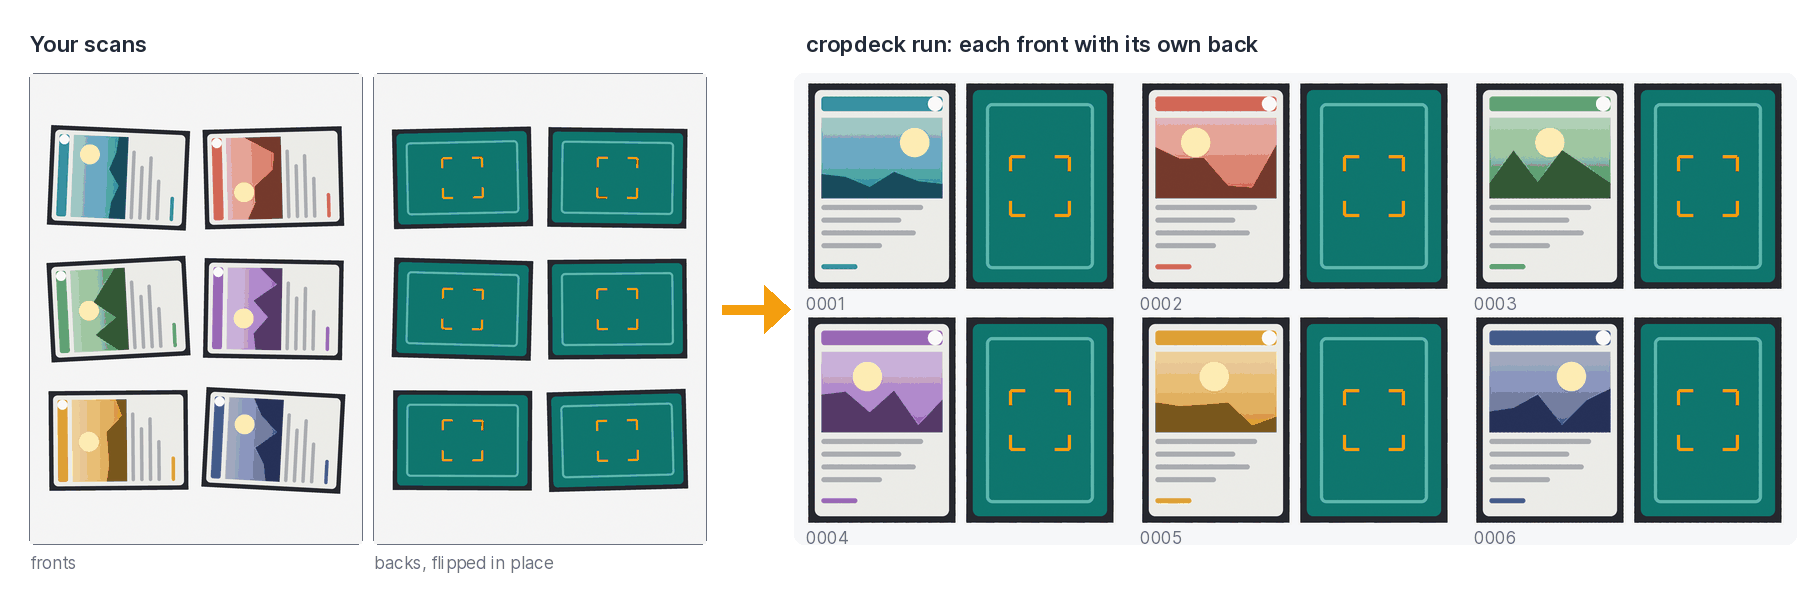
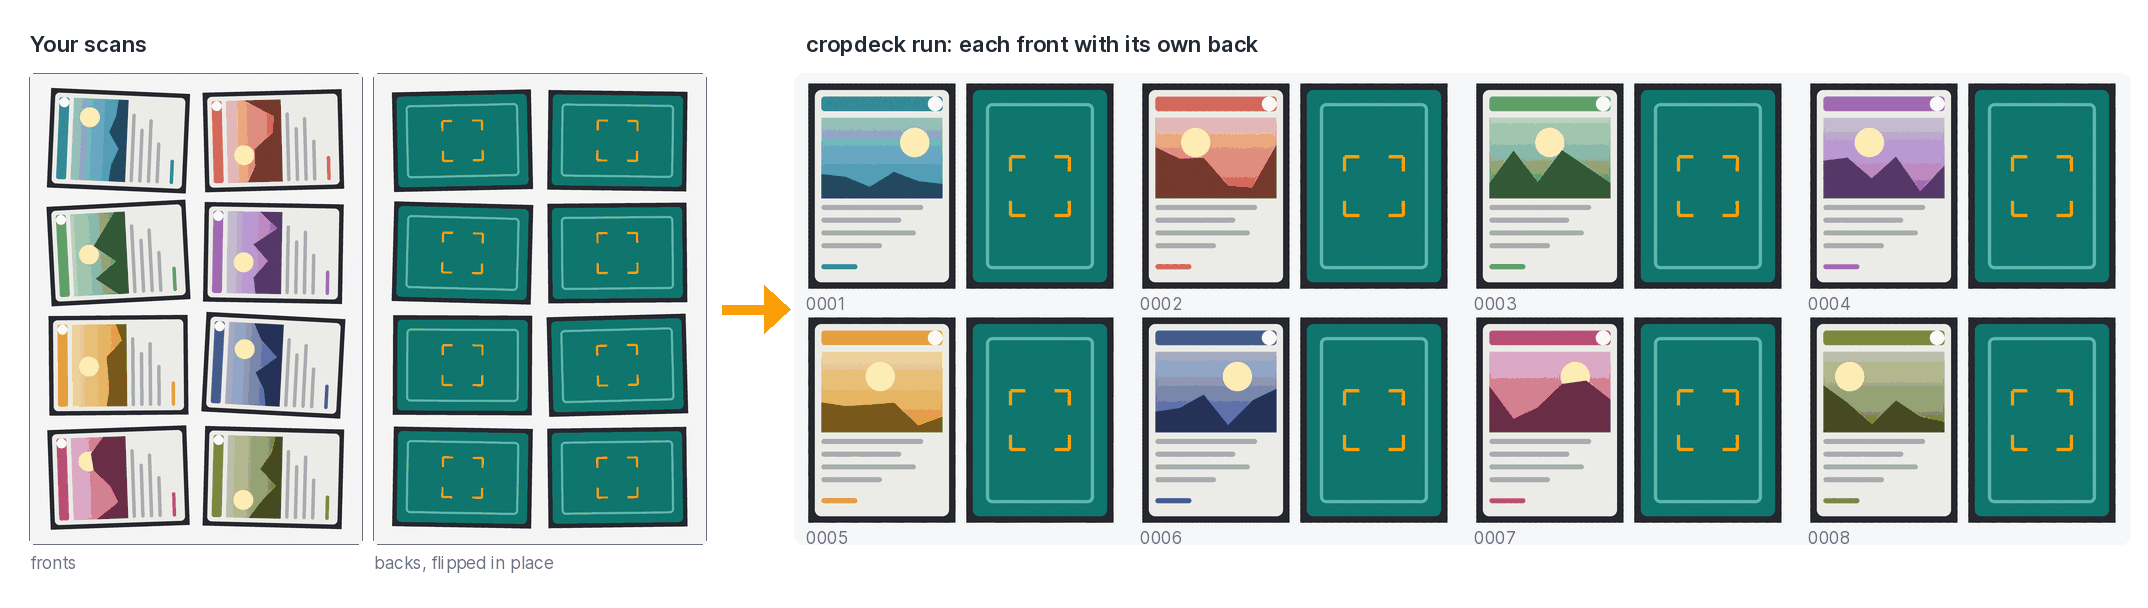
feat: cropdeck run expects eight sideways cards per scan (#10)
## What

- `cropdeck run` now expects **8 cards per scan** by default: two
across, four down, lying sideways - the most cards an A4 platen takes
with room to spare.
- Other layouts keep working with `--expect 6` / `--expect 9`. A count
that differs from `--expect` is reported, not refused; only fronts and
backs that differ are refused.
- `docs/scanning.md` names the 8-card layout as the standard; the README
picture shows it.
- The `run` test now checks the default with an 8-card tray and no
`--expect`.

## Not yet

The README text gets rewritten once the 8-card layout has been tested on
a real scanner.

## Checked

14/14 tests locally, ruff clean.

diff --git a/tools/demo_image.py b/tools/demo_image.py
@@ -37,6 +37,8 @@ HUES = [
     (155, 105, 190),
     (222, 160, 52),
     (70, 90, 160),
+    (196, 82, 128),
+    (128, 136, 62),
 ]
 
 THEMES = {  # background, panel, text, muted text, arrow
@@ -115,22 +117,22 @@ def back() -> np.ndarray:
 def cut_tray() -> tuple[np.ndarray, np.ndarray, list[tuple[np.ndarray, np.ndarray]]]:
     """A synthetic tray, run through the real split step. Returns both scans and the pairs."""
     fronts, backs, _ = synth.tray(
-        seed=7, layout="2x3-sideways", front=front, back=back(), marked=False
+        seed=7, layout="2x4-sideways", front=front, back=back(), marked=False
     )
     with tempfile.TemporaryDirectory() as tmp:
         scans, out = Path(tmp, "scans"), Path(tmp, "sorted")
         scans.mkdir()
         cv2.imwrite(str(scans / "scan_0001.png"), fronts)
         cv2.imwrite(str(scans / "scan_0002.png"), backs)
-        argv = ["split", str(scans), "-o", str(out), "--pair", "--expect", "6"]
+        argv = ["split", str(scans), "-o", str(out), "--pair", "--expect", "8"]
         if cropdeck(argv + ["--dpi", str(synth.DPI), "--no-sheet"]) != 0:
             raise SystemExit("cropdeck split failed on the demo tray")
         pairs = [
             (cv2.imread(str(f)), cv2.imread(str(f).replace("_front", "_back")))
             for f in sorted(out.glob("card_*_front.png"))
         ]
-    if len(pairs) != 6:
-        raise SystemExit(f"expected 6 pairs, got {len(pairs)}")
+    if len(pairs) != 8:
+        raise SystemExit(f"expected 8 pairs, got {len(pairs)}")
     return fronts, backs, pairs
 
 
@@ -149,7 +151,7 @@ def compose(fronts, backs, pairs, theme: str) -> Image.Image:
     card_w = cards[0][0].width
     pair_w = 2 * card_w + 6
     left_w = 2 * scans[0].width + gap
-    right_w = 3 * pair_w + 2 * 2 * gap
+    right_w = 4 * pair_w + 3 * 2 * gap
     arrow_w = 100
     W = pad + left_w + arrow_w + right_w + pad
     H = pad + 44 + scan_h + 34 + pad
@@ -181,8 +183,8 @@ def compose(fronts, backs, pairs, theme: str) -> Image.Image:
     )
     top = pad + 44 + (scan_h - 2 * card_h - 3 * gap) // 2
     for k, (f, b) in enumerate(cards):
-        cx = rx + (k % 3) * (pair_w + 2 * gap)
-        cy = top + (k // 3) * (card_h + 2 * gap)
+        cx = rx + (k % 4) * (pair_w + 2 * gap)
+        cy = top + (k // 4) * (card_h + 2 * gap)
         img.paste(f, (cx, cy))
         img.paste(b, (cx + card_w + 6, cy))
         d.text((cx, cy + card_h + 2), f"{k + 1:04d}", font=small, fill=muted)

diff --git a/tests/test_pipeline.py b/tests/test_pipeline.py
@@ -129,12 +129,13 @@ class Command(unittest.TestCase):
 
     def test_run_crops_and_pairs_a_folder_and_nothing_more(self):
         home = Path(tempfile.mkdtemp())
-        f, b, _ = synth.tray(0)
+        f, b, _ = synth.tray(0, layout="2x4-sideways")  # the default: 8 cards, no --expect
         write_trays(home / "scans", [(f, b)])
         r = run("run", home, "--dpi", synth.DPI)
         self.assertEqual(r.returncode, 0, r.stdout + r.stderr)
-        self.assertEqual(len(list((home / "sorted").glob("card_*_front.png"))), 6)
-        self.assertEqual(len(list((home / "sorted").glob("card_*_back.png"))), 6)
+        self.assertNotIn("expected", r.stdout)
+        self.assertEqual(len(list((home / "sorted").glob("card_*_front.png"))), 8)
+        self.assertEqual(len(list((home / "sorted").glob("card_*_back.png"))), 8)
         self.assertFalse(list(home.glob("*.xlsx")))  # tracker only with --tracker
 
     def test_status_reports_without_processing(self):
@@ -173,7 +174,7 @@ class Names(unittest.TestCase):
         home = Path(tempfile.mkdtemp())
         f, b, _ = synth.tray(0)
         write_trays(home / "scans", [(f, b)])
-        self.assertEqual(run("run", home, "--dpi", synth.DPI).returncode, 0)
+        self.assertEqual(run("run", home, "--expect", 6, "--dpi", synth.DPI).returncode, 0)
         csv_path = home / "sorted" / "cards.csv"
         with open(csv_path, newline="", encoding="utf-8-sig") as fh:
             rows = list(csv.DictReader(fh))

diff --git a/cropdeck/cli.py b/cropdeck/cli.py
@@ -55,7 +55,12 @@ def _parser() -> argparse.ArgumentParser:
         default=None,
         help="folder holding scans/ [default: $CROPDECK_HOME or the current directory]",
     )
-    r.add_argument("--expect", type=int, default=6, help="cards per scan (default 6)")
+    r.add_argument(
+        "--expect",
+        type=int,
+        default=8,
+        help="cards per scan (default 8: two across, four down, lying sideways)",
+    )
     r.add_argument("--dpi", type=float, default=None, help="scan resolution if not A4-detectable")
     r.add_argument("--names", action="store_true", help="also read names and numbers (OCR)")
     r.add_argument("--tracker", action="store_true", help="also update the tracker workbook")

diff --git a/docs/scanning.md b/docs/scanning.md
@@ -22,14 +22,15 @@ have already cut (`sorted/.cardsplit-state.json`), so finished scans are simply 
 
 ## Layout
 
-- 6 cards per scan, two across and three down, either standing upright or lying sideways — sideways
-  leaves far more room between the rows. 3 × 3 upright is faster (12 + 12 passes for 100 cards
-  instead of 17 + 17); tell the tools with `cropdeck run --expect 9`.
-- 8 cards: lying sideways, two across and four down (a fourth row under the sideways six). It
-  leaves about 34 mm across and 45 mm down on A4 to share between the gaps and edges. Use
-  `cropdeck run --expect 8`. Sideways cards are turned clockwise to stand up; lay them all the same
-  way, and if they come out upside down, turn them the other way round next time (or cut that tray
-  with `cropdeck split … --rotate 180`). Tested with synthetic trays in `tests/test_pipeline.py`.
+- **The standard: 8 cards lying sideways, two across and four down.** It leaves about 34 mm across
+  and 45 mm down on A4 to share between the gaps and edges, and `cropdeck run` expects it without
+  options. Sideways cards are turned clockwise to stand up; lay them all the same way, and if they
+  come out upside down, turn them the other way round next time (or cut that tray with
+  `cropdeck split … --rotate 180`).
+- Other layouts work too - tell the tools how many cards lie on the glass: 6 sideways or upright
+  (`--expect 6`), 3 × 3 upright (`--expect 9`). A count that differs from `--expect` is reported,
+  not refused; fronts and backs that differ are refused.
+- All of these are tested with synthetic trays in `tests/test_pipeline.py`.
 - Cards ~5–8 mm apart, ~1 cm from the platen edges. Tilt up to ~10° is corrected, sideways cards
   are stood upright, touching cards are cut apart.
 - **Backing:** the scanner's plain white lid is usually best — no dust, no creases. The tools

diff --git a/README.md b/README.md
@@ -63,7 +63,7 @@ Cropping and pairing need only OpenCV and NumPy. `--names` needs the Tesseract e
 The steps can also be run on their own, with every option:
 
 ```bash
-cropdeck split mycards/scans -o mycards/sorted --pair --expect 6   # find, crop, pair
+cropdeck split mycards/scans -o mycards/sorted --pair --expect 8   # find, crop, pair
 cropdeck name  mycards/sorted                                     # read names, rename
 cropdeck track mycards/sorted -o mycards/Karten-Tracker.xlsx      # update the sheet
 cropdeck status mycards                                           # how far along, changes nothing
